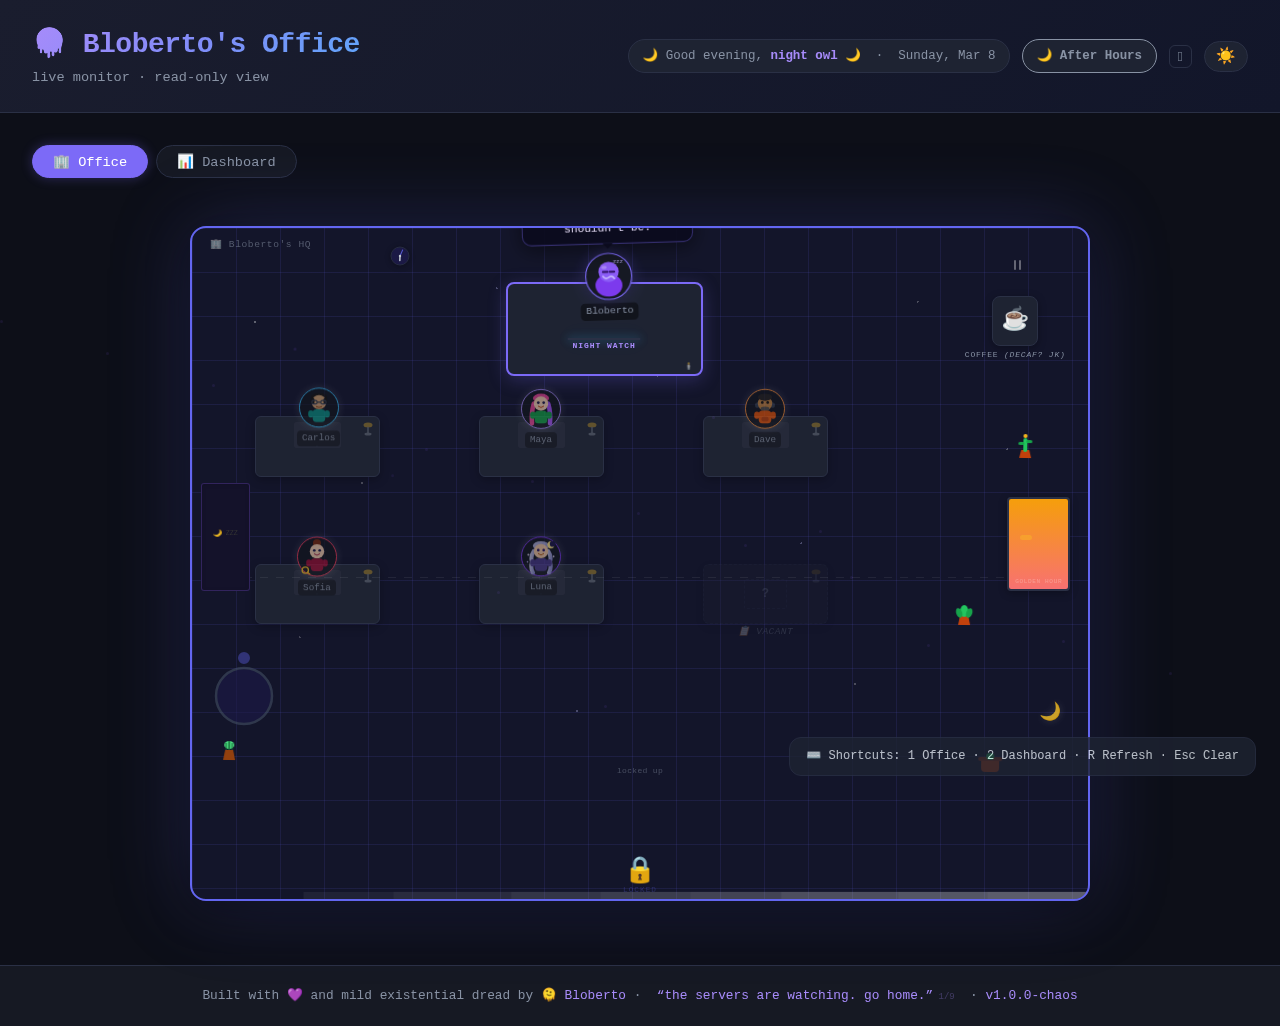
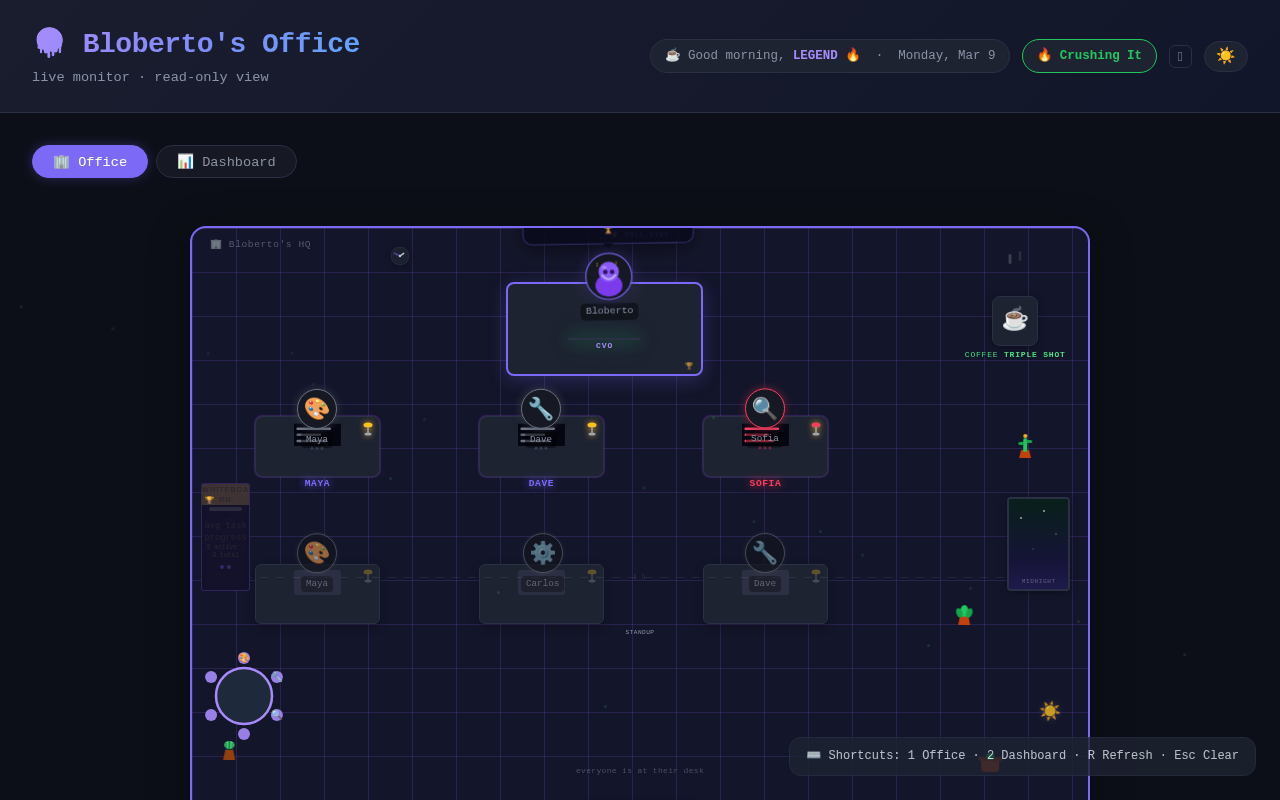
⚙ Carlos: late-night greeting fix + clickable dispatch labels

diff --git a/src/App.jsx b/src/App.jsx
@@ -330,7 +330,7 @@ const WorkerCard = React.memo(function WorkerCard({ worker, index = 0, isNew = f
               <div key={e.timestamp + e.type + (e.worker || '')} className="worker-card__back-entry">
                 <span style={{ marginRight: '0.35rem' }}>{ACTIVITY_ICONS[e.type] ?? '🔧'}</span>
                 {e.message}
-                <span className="activity-time" style={{ marginLeft: '0.35rem', opacity: 0.6 }} title={formatFullDateTime(e.timestamp)}>{getRelativeTime(e.timestamp)}</span>
+                <span className='worker-card__back-time' style={{ opacity: 0.5, fontSize: '0.7rem', marginLeft: '0.35rem' }}>· {getRelativeTime(e.timestamp)}</span>
               </div>
             ))
           )}
@@ -427,7 +427,12 @@ function StatsBar({ workers, vibe, lastSynced, isLive, vibeHistory }) {
       <div className="stat-card active">
         <span className="stat-label">⚡ Active</span>
         <span className="stat-value">{active}</span>
-        <span className="stat-dispatch">{getDispatch(STAT_DISPATCHES.active, active)}</span>
+        <span
+          className="stat-dispatch"
+          style={{ cursor: 'pointer' }}
+          title="Scroll to workers"
+          onClick={() => document.querySelector('.workers-grid')?.scrollIntoView({ behavior: 'smooth' })}
+        >{getDispatch(STAT_DISPATCHES.active, active)}</span>
         <DeltaBadge delta={activeDelta} />
       </div>
       <div className="stat-card idle">
@@ -455,6 +460,15 @@ function StatsBar({ workers, vibe, lastSynced, isLive, vibeHistory }) {
           onClick={() => {
             const name = stuckWorkers[0].name
             document.querySelector(`[data-worker-name="${name}"]`)?.scrollIntoView({ behavior: 'smooth' })
+          }}
+          tabIndex={0}
+          role="button"
+          onKeyDown={(e) => {
+            if (e.key === 'Enter' || e.key === ' ') {
+              e.preventDefault()
+              const name = stuckWorkers[0].name
+              document.querySelector(`[data-worker-name="${name}"]`)?.scrollIntoView({ behavior: 'smooth' })
+            }
           }}
         >
           <span className="stat-label">⚠ Stuck</span>
@@ -989,8 +1003,11 @@ export default function App() {
   const errorCount = activeWorkers.filter(w => w.status === 'error').length
 
   const currentHour = new Date().getHours()
+  const isAfterHours = currentHour < 5
   const greeting =
-    currentHour < 12
+    isAfterHours
+      ? (currentHour % 2 === 0 ? '🌃 Burning the midnight oil' : '🦉 Still at it')
+      : currentHour < 12
       ? '☕ Good morning'
       : currentHour < 18
       ? '🌤 Good afternoon'
@@ -1057,7 +1074,7 @@ export default function App() {
         </div>
         <div className="header-right">
           <div className="header-badge">
-            {greeting}, <span key={teamVibe.key} className="honorific">{HONORIFICS[teamVibe.key] ?? 'boss'}</span> &nbsp;&middot;&nbsp;{' '}
+            {greeting}, <span key={teamVibe.key} className="honorific">{HONORIFICS[isAfterHours ? 'after-hours' : teamVibe.key] ?? 'boss'}</span> &nbsp;&middot;&nbsp;{' '}
             {new Date().toLocaleDateString('en-US', {
               weekday: 'long',
               month: 'short',

diff --git a/src/Office.jsx b/src/Office.jsx
@@ -1026,7 +1026,13 @@ export default function Office({ workers = [], roster = [], isSyncing = false, a
   )
 
   const plantStageNames = ['seedling', 'sprout', 'small-plant', 'leafy', 'blooming']
-  const plantStage = plantStageNames[Math.min(Math.floor(vibeStreak / 5), 4)]
+  const plantStage = vibeStreak <= 1 ? 'seedling'
+    : vibeStreak <= 3 ? 'sprout'
+    : vibeStreak <= 5 ? 'small-plant'
+    : vibeStreak <= 8 ? 'leafy'
+    : 'blooming'
+  const plantStageEmoji = { seedling: '🌱', sprout: '🌱', 'small-plant': '🌿', leafy: '🌿', blooming: '🌸' }
+  const plantStageLabel = plantStage.split('-').map(w => w[0].toUpperCase() + w.slice(1)).join(' ')
 
   // Ficus milestone burst
   const prevPlantStageRef = useRef(plantStage)
@@ -1445,7 +1451,7 @@ export default function Office({ workers = [], roster = [], isSyncing = false, a
           className={`office-plant office-plant--ficus office-plant--${plantStage}`}
           data-milestone={plantMilestone || undefined}
           style={{ left: '87%', top: '72%' }}
-          title={plantStage === 'blooming' ? 'Fern 🌿 · blooming · fully grown' : `Fern 🌿 · ${plantStage} · ${(Math.min(Math.floor(vibeStreak / 5), 3) + 1) * 5 - vibeStreak} vibe tick(s) until she grows`}
+          title={`Streak: ${vibeStreak} · ${plantStageLabel} ${plantStageEmoji[plantStage]}`}
           aria-hidden="true"
         >
           <div className="ficus-pot" />
@@ -1493,9 +1499,9 @@ export default function Office({ workers = [], roster = [], isSyncing = false, a
         <div className="ambient-particles" aria-hidden="true">
           {[...Array(7)].map((_, i) => (
             <span key={i} className="ambient-particle" style={{
+              '--i': i,
               left: `${10 + i * 12}%`,
               top: `${20 + (i * 17) % 60}%`,
-              animationDuration: `${20 + i * 4}s`,
               animationDelay: `${i * 3}s`
             }} />
           ))}

diff --git a/src/Office.css b/src/Office.css
@@ -1145,7 +1145,8 @@
     height: 24px;
   }
   .char__name {
-    display: none;
+    display: block;
+    font-size: 0.45rem;
   }
   .coffee-corner__emoji {
     font-size: 1rem;
@@ -1936,7 +1937,7 @@
   width: 3px; height: 3px;
   border-radius: 50%;
   background: rgba(255, 255, 255, 0.12);
-  animation: ambient-drift linear infinite;
+  animation: ambient-drift calc(20s + var(--i, 0) * 4s) linear infinite;
 }
 @keyframes ambient-drift {
   0% { transform: translate(0, 0); opacity: 0.08; }
@@ -2292,6 +2293,20 @@
 .desk--ghost[data-ghost-tier='abandoned'] .desk-monitor-screen { filter: brightness(0.5) sepia(0.3) hue-rotate(-30deg); }
 @keyframes abandoned-pulse { 0%,100% { box-shadow: none; } 50% { box-shadow: 0 0 8px 2px rgba(239,68,68,0.25); } }
 
+.desk--ghost[data-ghost-tier='stale'] {
+  box-shadow: 0 0 8px rgba(245,158,11,0.35) inset;
+}
+.desk--ghost[data-ghost-tier='stale'] .desk__monitor-screen {
+  filter: sepia(0.3) saturate(0.7);
+}
+.desk--ghost[data-ghost-tier='abandoned'] {
+  border-left: 2px solid #ef4444;
+  box-shadow: 0 0 12px rgba(239,68,68,0.25) inset;
+}
+.desk--ghost[data-ghost-tier='abandoned'] .desk__monitor-screen {
+  filter: sepia(0.5) saturate(0.4) brightness(0.8);
+}
+
 /* === Mobile Office Scale Fix (Luna Review #41) === */
 @media (max-width: 480px) {
   .office-wrap {
@@ -2302,7 +2317,8 @@
     min-height: 65vh;
   }
   .char__name {
-    font-size: 0.32rem;
+    display: block;
+    font-size: 0.45rem;
   }
   .idle-duration {
     font-size: 0.26rem;
@@ -2377,4 +2393,14 @@
 @keyframes label-arrive {
   from { opacity: 0; transform: translateX(-50%) translateY(4px); }
   to   { opacity: 0.45; transform: translateX(-50%) translateY(0); }
+}
+
+.lone-survivor-label {
+  pointer-events: none;
+  text-shadow: 0 1px 3px rgba(0,0,0,0.5);
+  animation: lone-pulse 3s ease-in-out infinite;
+}
+@keyframes lone-pulse {
+  0%, 100% { opacity: 0.6; }
+  50% { opacity: 0.9; }
 }

diff --git a/src/App.css b/src/App.css
@@ -115,7 +115,7 @@
 /* ---- Stats Bar ---- */
 .stats-bar {
   display: grid;
-  grid-template-columns: repeat(5, 1fr);
+  grid-template-columns: repeat(auto-fit, minmax(140px, 1fr));
   gap: 1rem;
   margin-bottom: 2rem;
   border-radius: var(--radius);
@@ -914,6 +914,11 @@
 
 .tab-toggle button:focus-visible {
   outline: 2px solid var(--accent, #a78bfa);
+  outline-offset: 2px;
+}
+
+.task-tag:focus-visible {
+  outline: 2px solid var(--accent, #a855f7);
   outline-offset: 2px;
 }
 

diff --git a/index.html b/index.html
@@ -5,6 +5,7 @@
     <link rel="icon" type="image/svg+xml" href="/vite.svg" />
     <meta name="viewport" content="width=device-width, initial-scale=1.0" />
     <title>🫠 Bloberto's Office</title>
+    <link href='https://fonts.googleapis.com/css2?family=Inter:wght@400;500;600;700&display=swap' rel='stylesheet'>
   </head>
   <body>
     <div id="root"></div>
